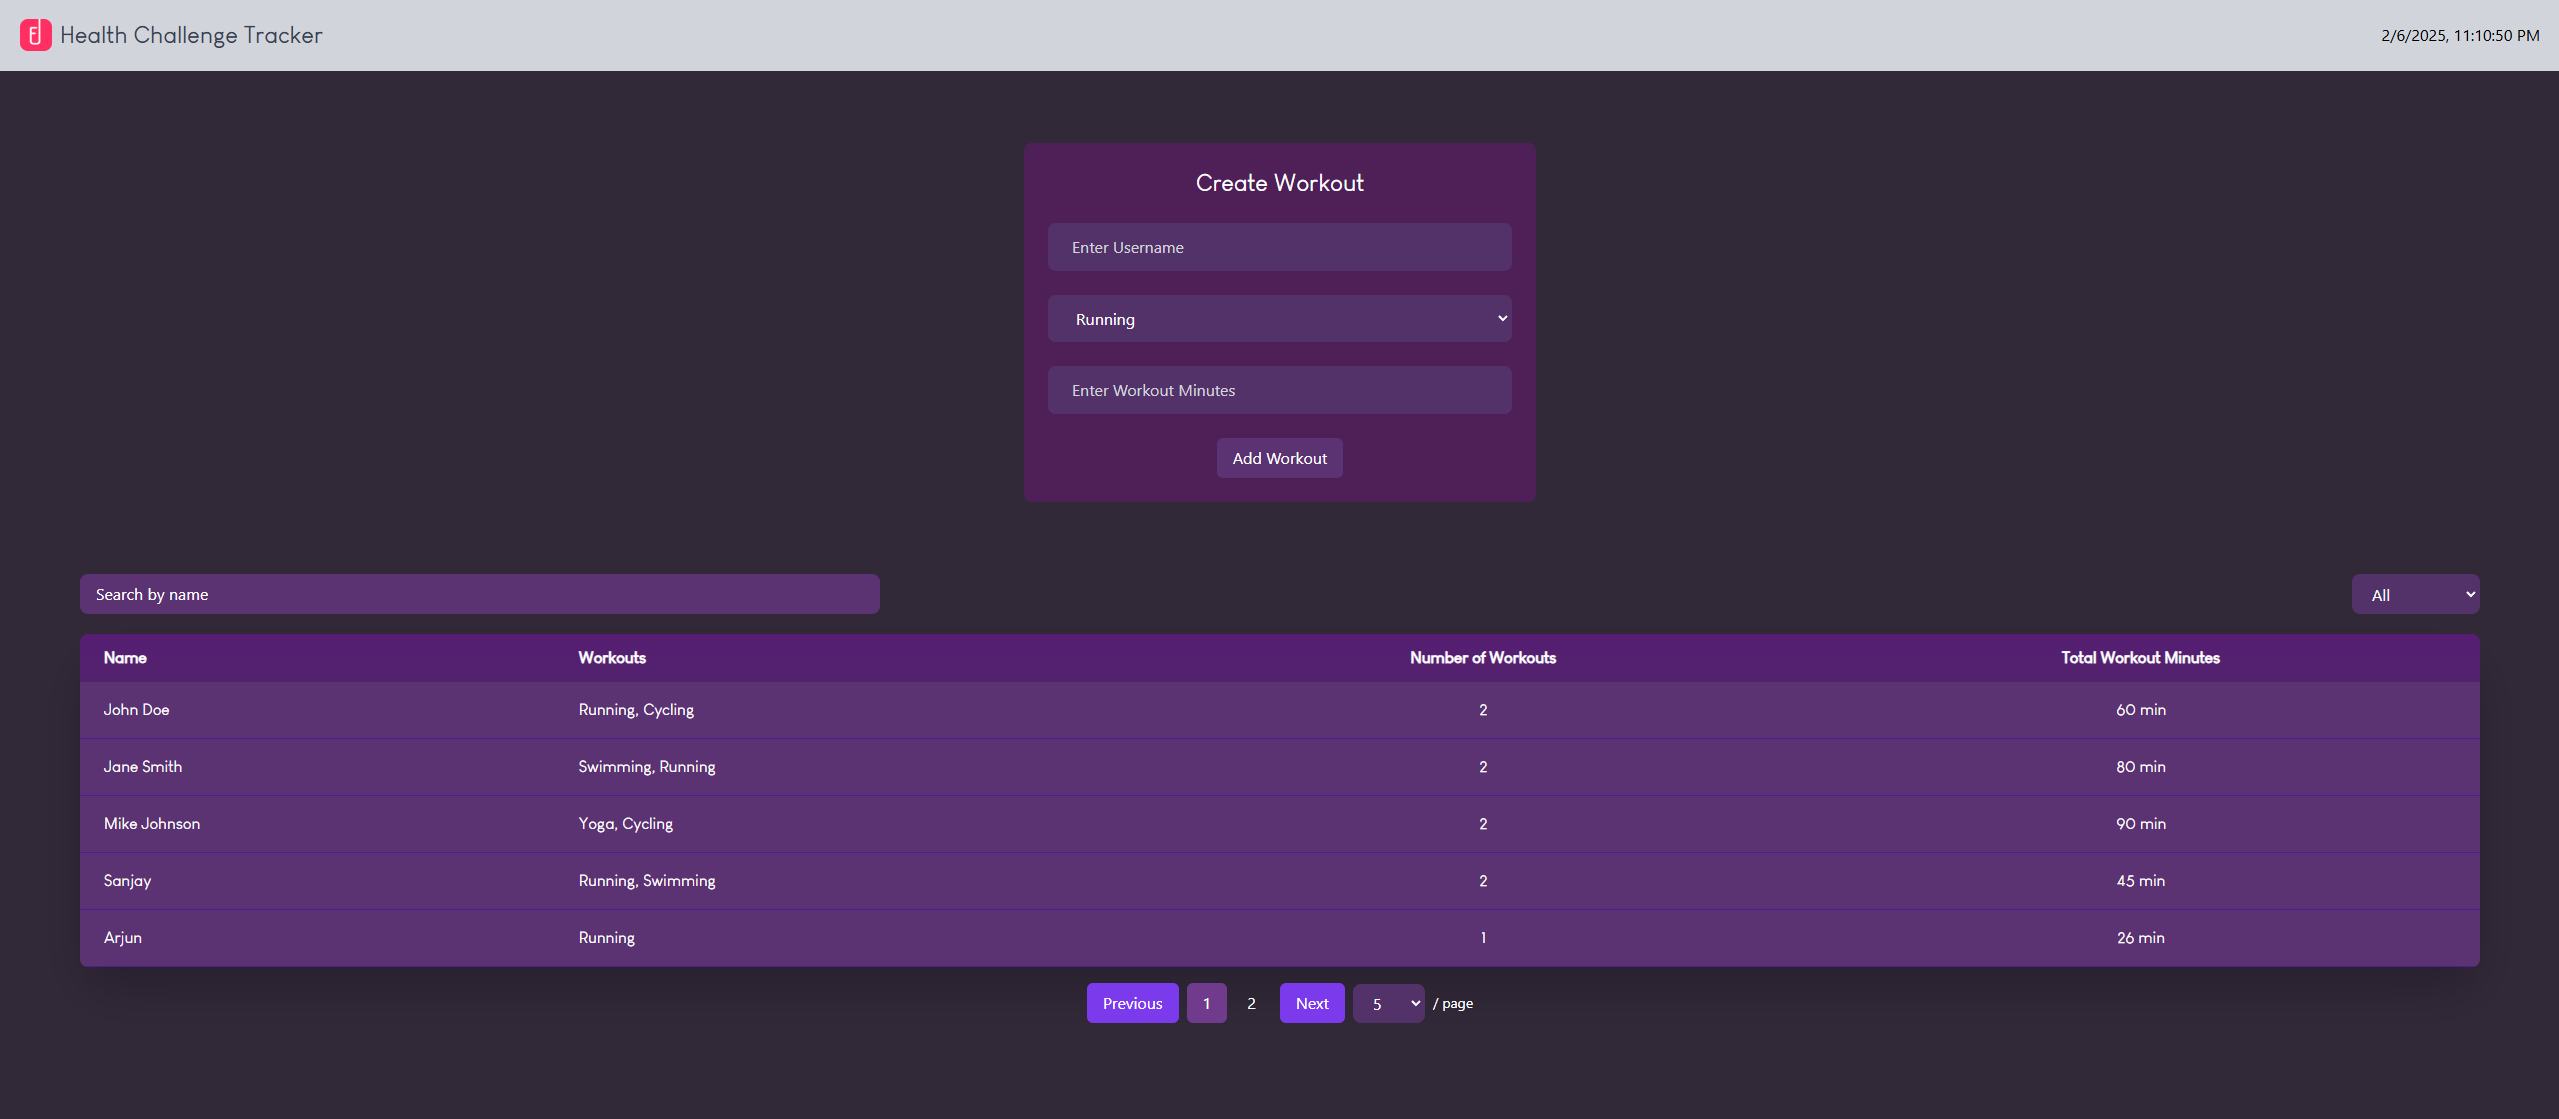
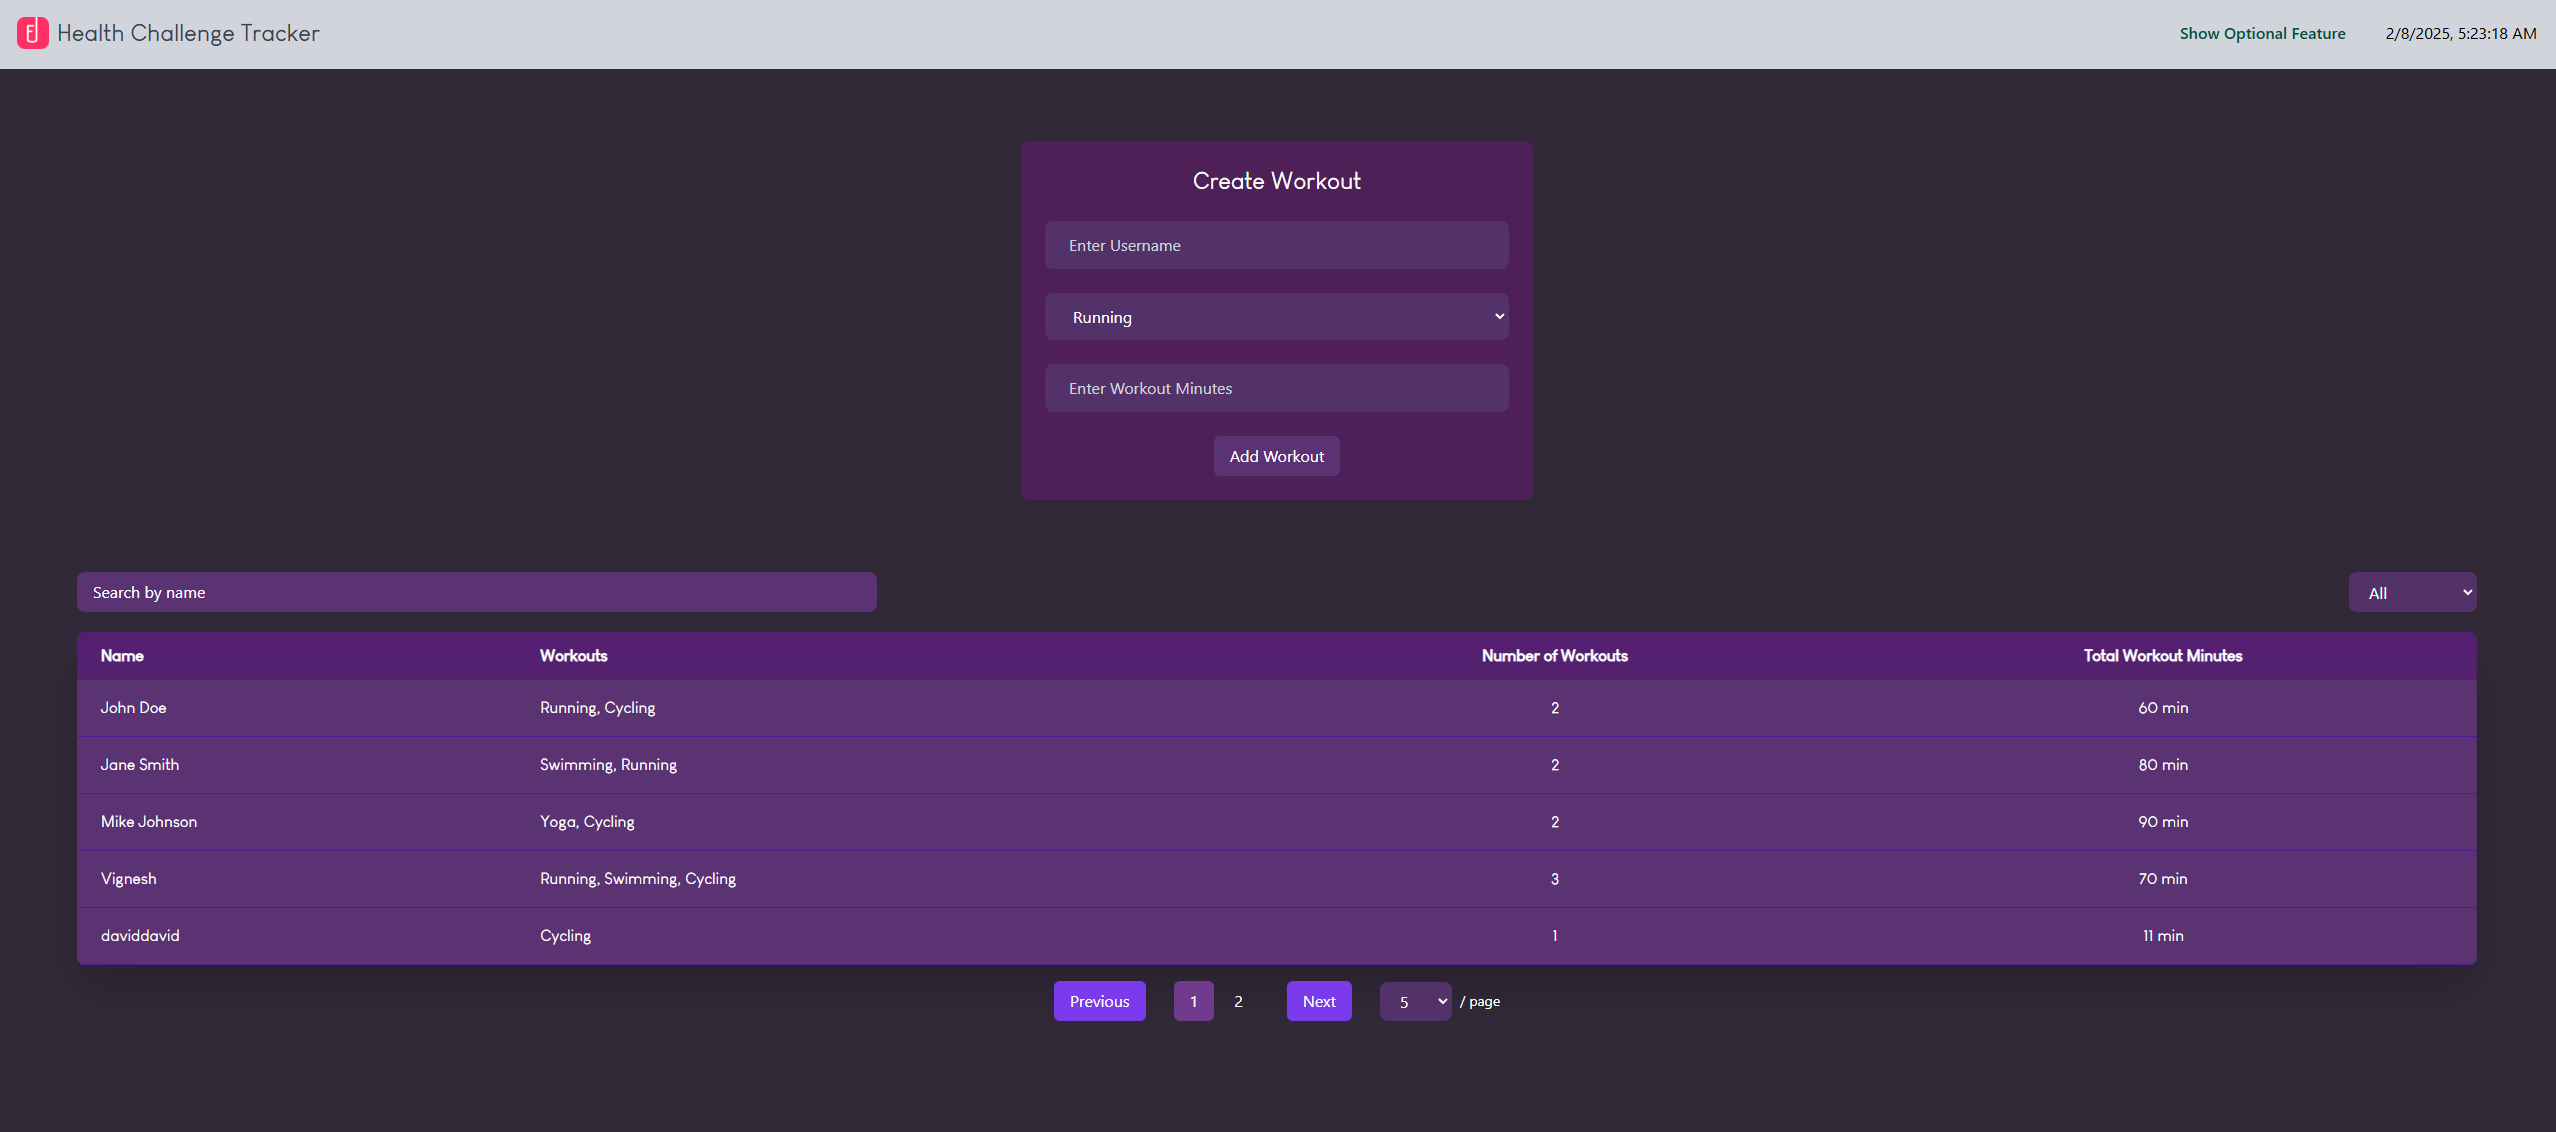
Added Optional feature - Display the workout progress using charts

diff --git a/coverage/fyle-health-tracker/app/app.component.ts.html b/coverage/fyle-health-tracker/app/app.component.ts.html
@@ -25,7 +25,7 @@
             <div class='fl pad1y space-right2'>
                 <span class="strong">100% </span>
                 <span class="quiet">Statements</span>
-                <span class='fraction'>59/59</span>
+                <span class='fraction'>60/60</span>
             </div>
         
             
@@ -46,7 +46,7 @@
             <div class='fl pad1y space-right2'>
                 <span class="strong">100% </span>
                 <span class="quiet">Lines</span>
-                <span class='fraction'>55/55</span>
+                <span class='fraction'>56/56</span>
             </div>
         
             
@@ -207,7 +207,8 @@
 <a name='L142'></a><a href='#L142'>142</a>
 <a name='L143'></a><a href='#L143'>143</a>
 <a name='L144'></a><a href='#L144'>144</a>
-<a name='L145'></a><a href='#L145'>145</a></td><td class="line-coverage quiet"><span class="cline-any cline-neutral">&nbsp;</span>
+<a name='L145'></a><a href='#L145'>145</a>
+<a name='L146'></a><a href='#L146'>146</a></td><td class="line-coverage quiet"><span class="cline-any cline-neutral">&nbsp;</span>
 <span class="cline-any cline-neutral">&nbsp;</span>
 <span class="cline-any cline-neutral">&nbsp;</span>
 <span class="cline-any cline-neutral">&nbsp;</span>
@@ -233,16 +234,17 @@
 <span class="cline-any cline-yes">17x</span>
 <span class="cline-any cline-yes">17x</span>
 <span class="cline-any cline-yes">17x</span>
+<span class="cline-any cline-yes">17x</span>
 <span class="cline-any cline-neutral">&nbsp;</span>
 <span class="cline-any cline-neutral">&nbsp;</span>
 <span class="cline-any cline-yes">19x</span>
 <span class="cline-any cline-yes">19x</span>
-<span class="cline-any cline-yes">4x</span>
+<span class="cline-any cline-yes">9x</span>
 <span class="cline-any cline-neutral">&nbsp;</span>
 <span class="cline-any cline-neutral">&nbsp;</span>
 <span class="cline-any cline-neutral">&nbsp;</span>
 <span class="cline-any cline-neutral">&nbsp;</span>
-<span class="cline-any cline-yes">19x</span>
+<span class="cline-any cline-yes">24x</span>
 <span class="cline-any cline-neutral">&nbsp;</span>
 <span class="cline-any cline-neutral">&nbsp;</span>
 <span class="cline-any cline-yes">17x</span>
@@ -377,7 +379,8 @@ export class AppComponent implements OnInit{
   paginatedUsers: User[] = [];
   pages: number[] = [];
   userData: User[] = [];
-&nbsp;
+  displayChart = false;
+  
   ngOnInit() {
     this.updateTime();
     setInterval(() =&gt; {
@@ -502,7 +505,7 @@ export class AppComponent implements OnInit{
             <div class='footer quiet pad2 space-top1 center small'>
                 Code coverage generated by
                 <a href="https://istanbul.js.org/" target="_blank" rel="noopener noreferrer">istanbul</a>
-                at 2025-02-07T23:38:09.078Z
+                at 2025-02-08T00:06:27.753Z
             </div>
         <script src="../prettify.js"></script>
         <script>

diff --git a/src/app/app.component.html b/src/app/app.component.html
@@ -7,6 +7,7 @@
 
   <div class="flex justify-center">
     <div class="hidden md:flex space-x-6">
+      <button (click)="displayChart = !displayChart" class="px-4 text-green-900 rounded-md focus:outline-none font-semibold"> {{ displayChart ? 'Hide Optional Feature' : 'Show Optional Feature' }} </button>
       <a href="#" class="font-light font-normal cursor-default">{{CurrentDateTime}}</a>
     </div>
   </div>
@@ -19,9 +20,8 @@
 <app-add-workout></app-add-workout>
 
 
-
 <!-- Workout Table Display Start -->
-<div class="grid grid-cols-1 px-5 md:px-20">
+<div class="grid grid-cols-1 px-5 md:px-20" *ngIf="!displayChart">
   <div class="flex flex-col md:flex-row justify-between pb-5 gap-3">
     <input [(ngModel)]="searchName" (input)="filterByNameType()" class="w-full md:w-1/3 px-4 py-2 rounded-lg bg-custom-table-body text-white placeholder-white focus:outline-none" placeholder="Search by name"/>
 
@@ -62,7 +62,7 @@
 
 
 <!-- Pagination Options Start -->
-<div class="flex gap-5 flex-row md:flex-row justify-center items-center space-y-3 md:space-y-0 md:space-x-2 p-4">
+<div class="flex gap-5 flex-row md:flex-row justify-center items-center space-y-3 md:space-y-0 md:space-x-2 p-4" *ngIf="!displayChart">
 
   <button class="px-4 py-2 bg-purple-600 text-white rounded-md hover:bg-purple-700 disabled:opacity-50" [disabled]="currentPage === 1" (click)="goToPreviousPage()">Previous</button>
 
@@ -89,9 +89,12 @@
 </div>
 <!-- Pagination Options End -->
 
-
 <!-- Chart Display Start -->
-<div class="hidden md:flex flex-col pb-20 md:flex-row w-full justify-center gap-6 md:gap-10 mt-10 md:mt-20 px-4">
+ <div class="flex md:hidden justify-center font-custom text-white"> 
+  Chart Unsupported for Android devices.. ! <!-- charts-ngx module is not responsive for mobile devices, so just displaying and unsupported message. -->
+ </div>
+
+<div class="hidden md:flex flex-col pb-20 md:flex-row w-full justify-center gap-6 md:gap-10 mt-10 md:mt-20 px-4" *ngIf="displayChart">
 
   <div class="flex justify-center md:justify-start">
     <div class="bg-custom-table-header text-white shadow-xl w-64 rounded-lg p-2">
@@ -113,7 +116,7 @@
     </div>
   </div>
   
-
+  
   <div class="flex justify-start">
     <div *ngIf="selectedUser" class="w-full  p-4 bg-custom-table-header rounded-xl shadow-lg text-white">
       <h3 class="text-xl font-custom text-center mt-4 mb-6">{{ selectedUser.name }}'s Workout Progress</h3>

diff --git a/coverage/fyle-health-tracker/app/index.html b/coverage/fyle-health-tracker/app/index.html
@@ -25,7 +25,7 @@
             <div class='fl pad1y space-right2'>
                 <span class="strong">100% </span>
                 <span class="quiet">Statements</span>
-                <span class='fraction'>59/59</span>
+                <span class='fraction'>60/60</span>
             </div>
         
             
@@ -46,7 +46,7 @@
             <div class='fl pad1y space-right2'>
                 <span class="strong">100% </span>
                 <span class="quiet">Lines</span>
-                <span class='fraction'>55/55</span>
+                <span class='fraction'>56/56</span>
             </div>
         
             
@@ -84,13 +84,13 @@
 	<div class="chart"><div class="cover-fill cover-full" style="width: 100%"></div><div class="cover-empty" style="width: 0%"></div></div>
 	</td>
 	<td data-value="100" class="pct high">100%</td>
-	<td data-value="59" class="abs high">59/59</td>
+	<td data-value="60" class="abs high">60/60</td>
 	<td data-value="100" class="pct high">100%</td>
 	<td data-value="13" class="abs high">13/13</td>
 	<td data-value="100" class="pct high">100%</td>
 	<td data-value="23" class="abs high">23/23</td>
 	<td data-value="100" class="pct high">100%</td>
-	<td data-value="55" class="abs high">55/55</td>
+	<td data-value="56" class="abs high">56/56</td>
 	</tr>
 
 </tbody>
@@ -101,7 +101,7 @@
             <div class='footer quiet pad2 space-top1 center small'>
                 Code coverage generated by
                 <a href="https://istanbul.js.org/" target="_blank" rel="noopener noreferrer">istanbul</a>
-                at 2025-02-07T23:38:09.078Z
+                at 2025-02-08T00:06:27.753Z
             </div>
         <script src="../prettify.js"></script>
         <script>

diff --git a/coverage/fyle-health-tracker/index.html b/coverage/fyle-health-tracker/index.html
@@ -25,7 +25,7 @@
             <div class='fl pad1y space-right2'>
                 <span class="strong">100% </span>
                 <span class="quiet">Statements</span>
-                <span class='fraction'>101/101</span>
+                <span class='fraction'>102/102</span>
             </div>
         
             
@@ -46,7 +46,7 @@
             <div class='fl pad1y space-right2'>
                 <span class="strong">100% </span>
                 <span class="quiet">Lines</span>
-                <span class='fraction'>94/94</span>
+                <span class='fraction'>95/95</span>
             </div>
         
             
@@ -84,13 +84,13 @@
 	<div class="chart"><div class="cover-fill cover-full" style="width: 100%"></div><div class="cover-empty" style="width: 0%"></div></div>
 	</td>
 	<td data-value="100" class="pct high">100%</td>
-	<td data-value="59" class="abs high">59/59</td>
+	<td data-value="60" class="abs high">60/60</td>
 	<td data-value="100" class="pct high">100%</td>
 	<td data-value="13" class="abs high">13/13</td>
 	<td data-value="100" class="pct high">100%</td>
 	<td data-value="23" class="abs high">23/23</td>
 	<td data-value="100" class="pct high">100%</td>
-	<td data-value="55" class="abs high">55/55</td>
+	<td data-value="56" class="abs high">56/56</td>
 	</tr>
 
 <tr>
@@ -131,7 +131,7 @@
             <div class='footer quiet pad2 space-top1 center small'>
                 Code coverage generated by
                 <a href="https://istanbul.js.org/" target="_blank" rel="noopener noreferrer">istanbul</a>
-                at 2025-02-07T23:38:09.078Z
+                at 2025-02-08T00:06:27.753Z
             </div>
         <script src="prettify.js"></script>
         <script>

diff --git a/coverage/fyle-health-tracker/app/components/add-workout/add-workout.component.ts.html b/coverage/fyle-health-tracker/app/components/add-workout/add-workout.component.ts.html
@@ -406,7 +406,7 @@ export class AddWorkoutComponent {
             <div class='footer quiet pad2 space-top1 center small'>
                 Code coverage generated by
                 <a href="https://istanbul.js.org/" target="_blank" rel="noopener noreferrer">istanbul</a>
-                at 2025-02-07T23:38:09.078Z
+                at 2025-02-08T00:06:27.753Z
             </div>
         <script src="../../../prettify.js"></script>
         <script>

diff --git a/coverage/fyle-health-tracker/app/services/workout-api.service.ts.html b/coverage/fyle-health-tracker/app/services/workout-api.service.ts.html
@@ -292,7 +292,7 @@ export class WorkoutApiService {
             <div class='footer quiet pad2 space-top1 center small'>
                 Code coverage generated by
                 <a href="https://istanbul.js.org/" target="_blank" rel="noopener noreferrer">istanbul</a>
-                at 2025-02-07T23:38:09.078Z
+                at 2025-02-08T00:06:27.753Z
             </div>
         <script src="../../prettify.js"></script>
         <script>

diff --git a/coverage/fyle-health-tracker/app/components/add-workout/index.html b/coverage/fyle-health-tracker/app/components/add-workout/index.html
@@ -101,7 +101,7 @@
             <div class='footer quiet pad2 space-top1 center small'>
                 Code coverage generated by
                 <a href="https://istanbul.js.org/" target="_blank" rel="noopener noreferrer">istanbul</a>
-                at 2025-02-07T23:38:09.078Z
+                at 2025-02-08T00:06:27.753Z
             </div>
         <script src="../../../prettify.js"></script>
         <script>

diff --git a/coverage/fyle-health-tracker/app/services/index.html b/coverage/fyle-health-tracker/app/services/index.html
@@ -101,7 +101,7 @@
             <div class='footer quiet pad2 space-top1 center small'>
                 Code coverage generated by
                 <a href="https://istanbul.js.org/" target="_blank" rel="noopener noreferrer">istanbul</a>
-                at 2025-02-07T23:38:09.078Z
+                at 2025-02-08T00:06:27.753Z
             </div>
         <script src="../../prettify.js"></script>
         <script>

diff --git a/src/app/app.component.ts b/src/app/app.component.ts
@@ -24,7 +24,8 @@ export class AppComponent implements OnInit{
   paginatedUsers: User[] = [];
   pages: number[] = [];
   userData: User[] = [];
-
+  displayChart = false;
+  
   ngOnInit() {
     this.updateTime();
     setInterval(() => {
